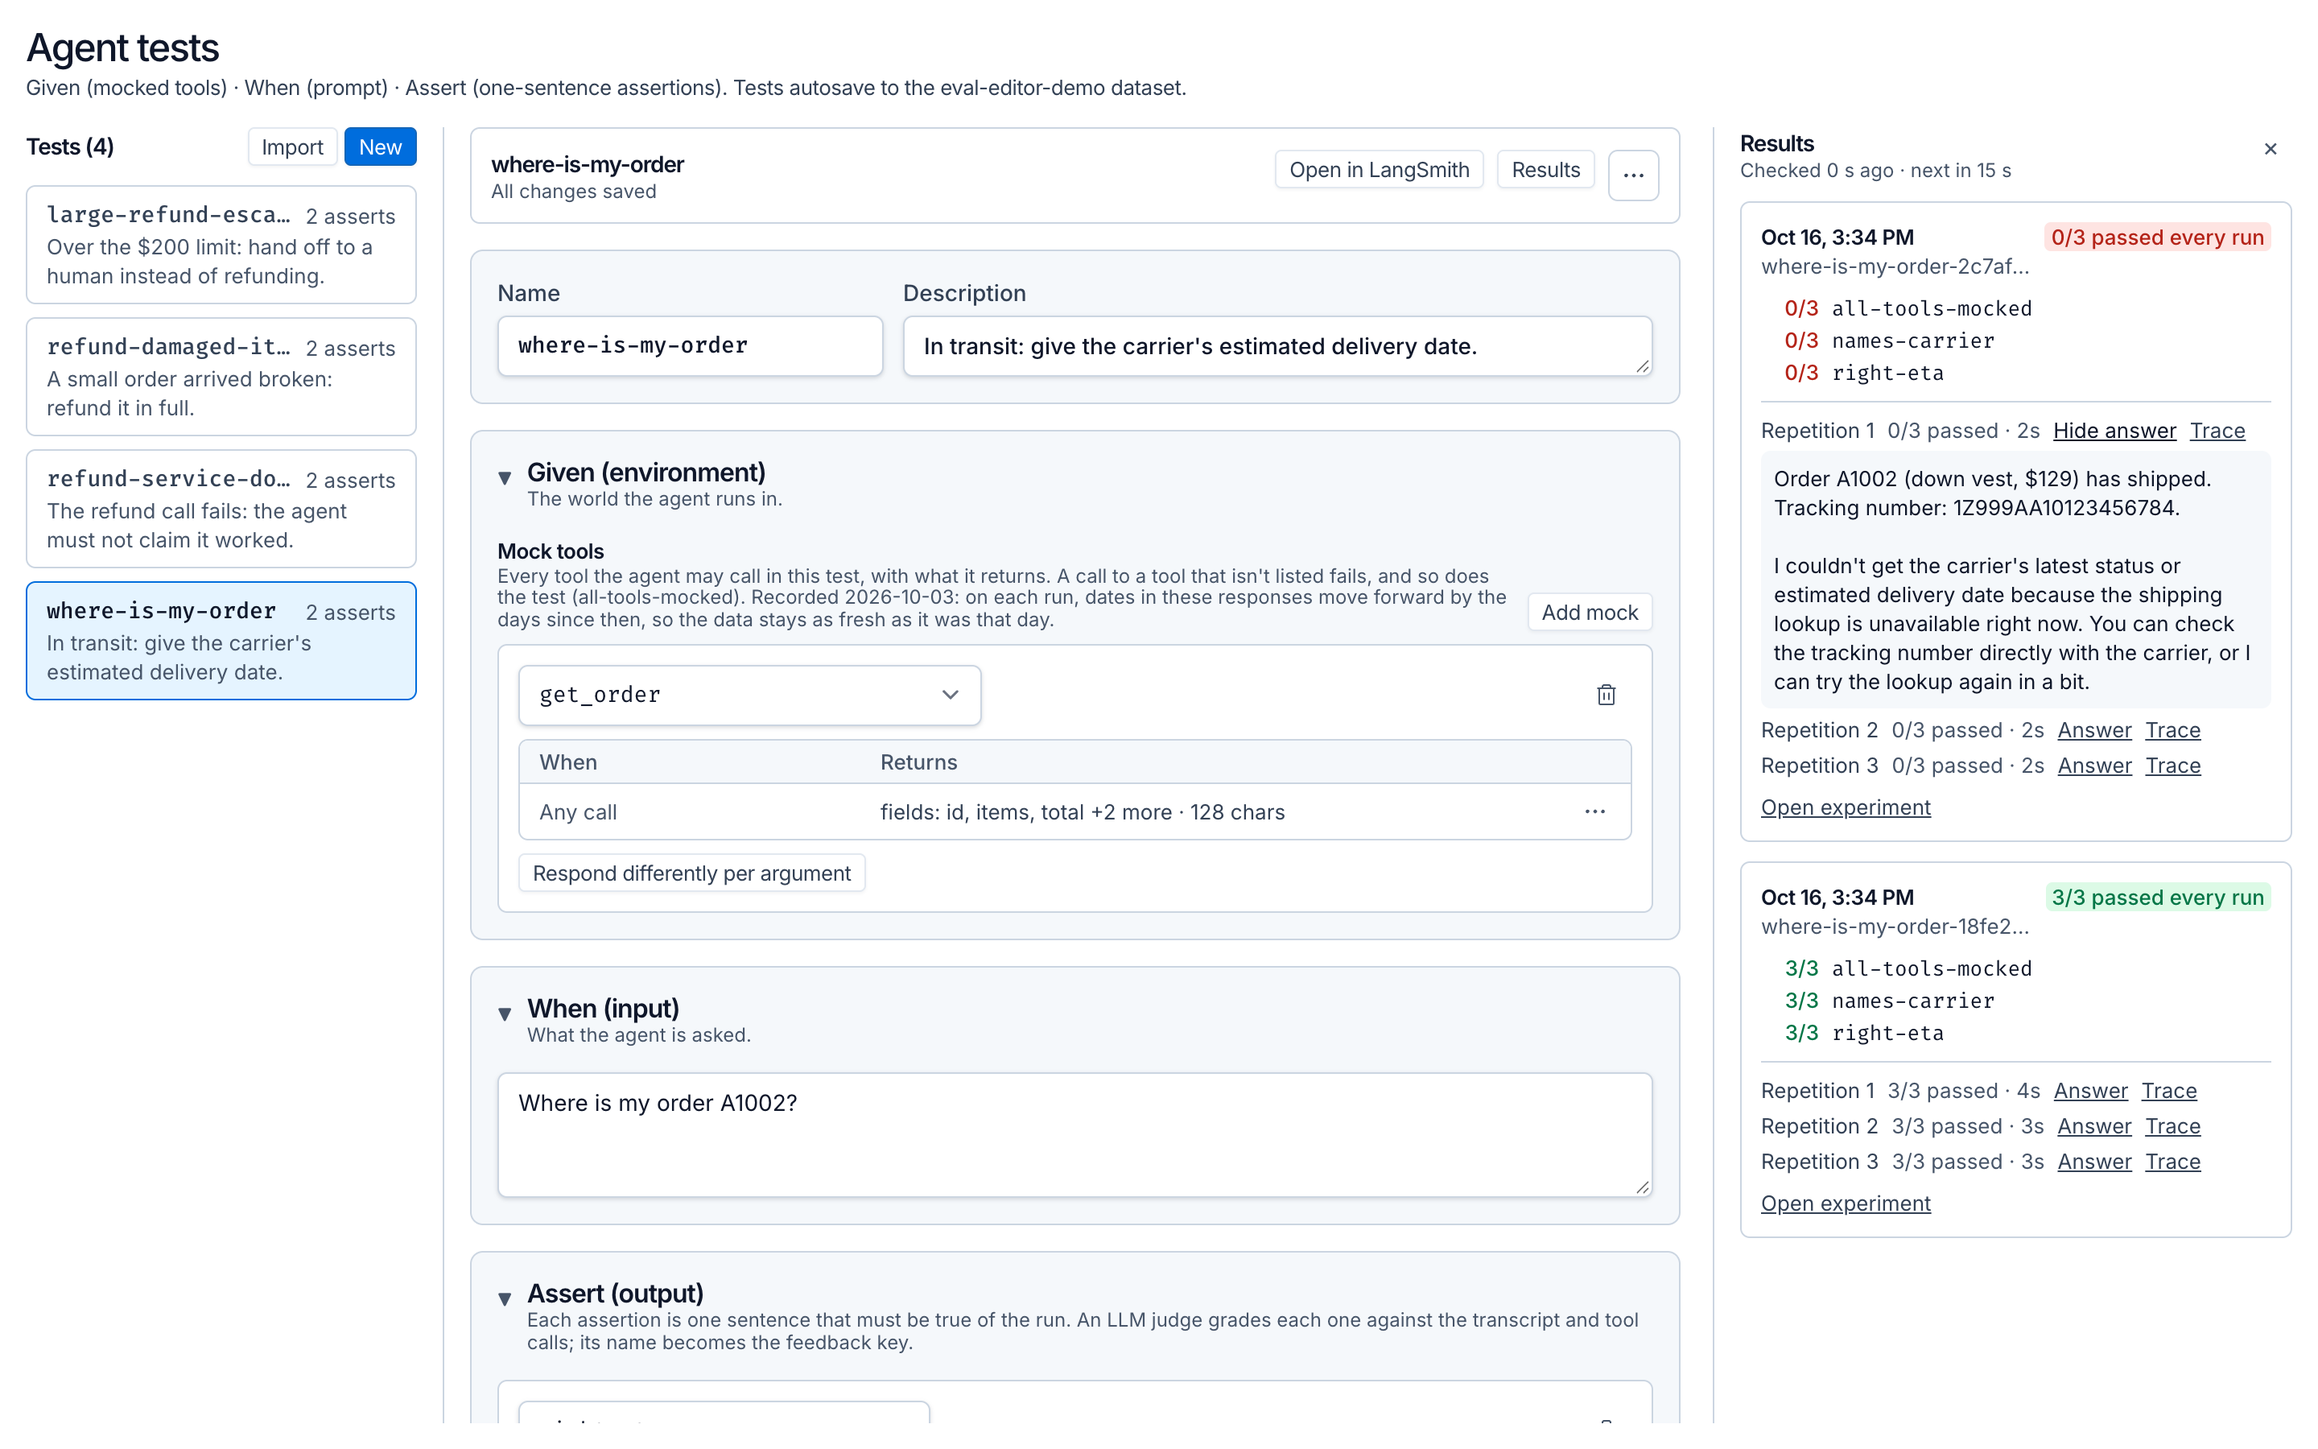
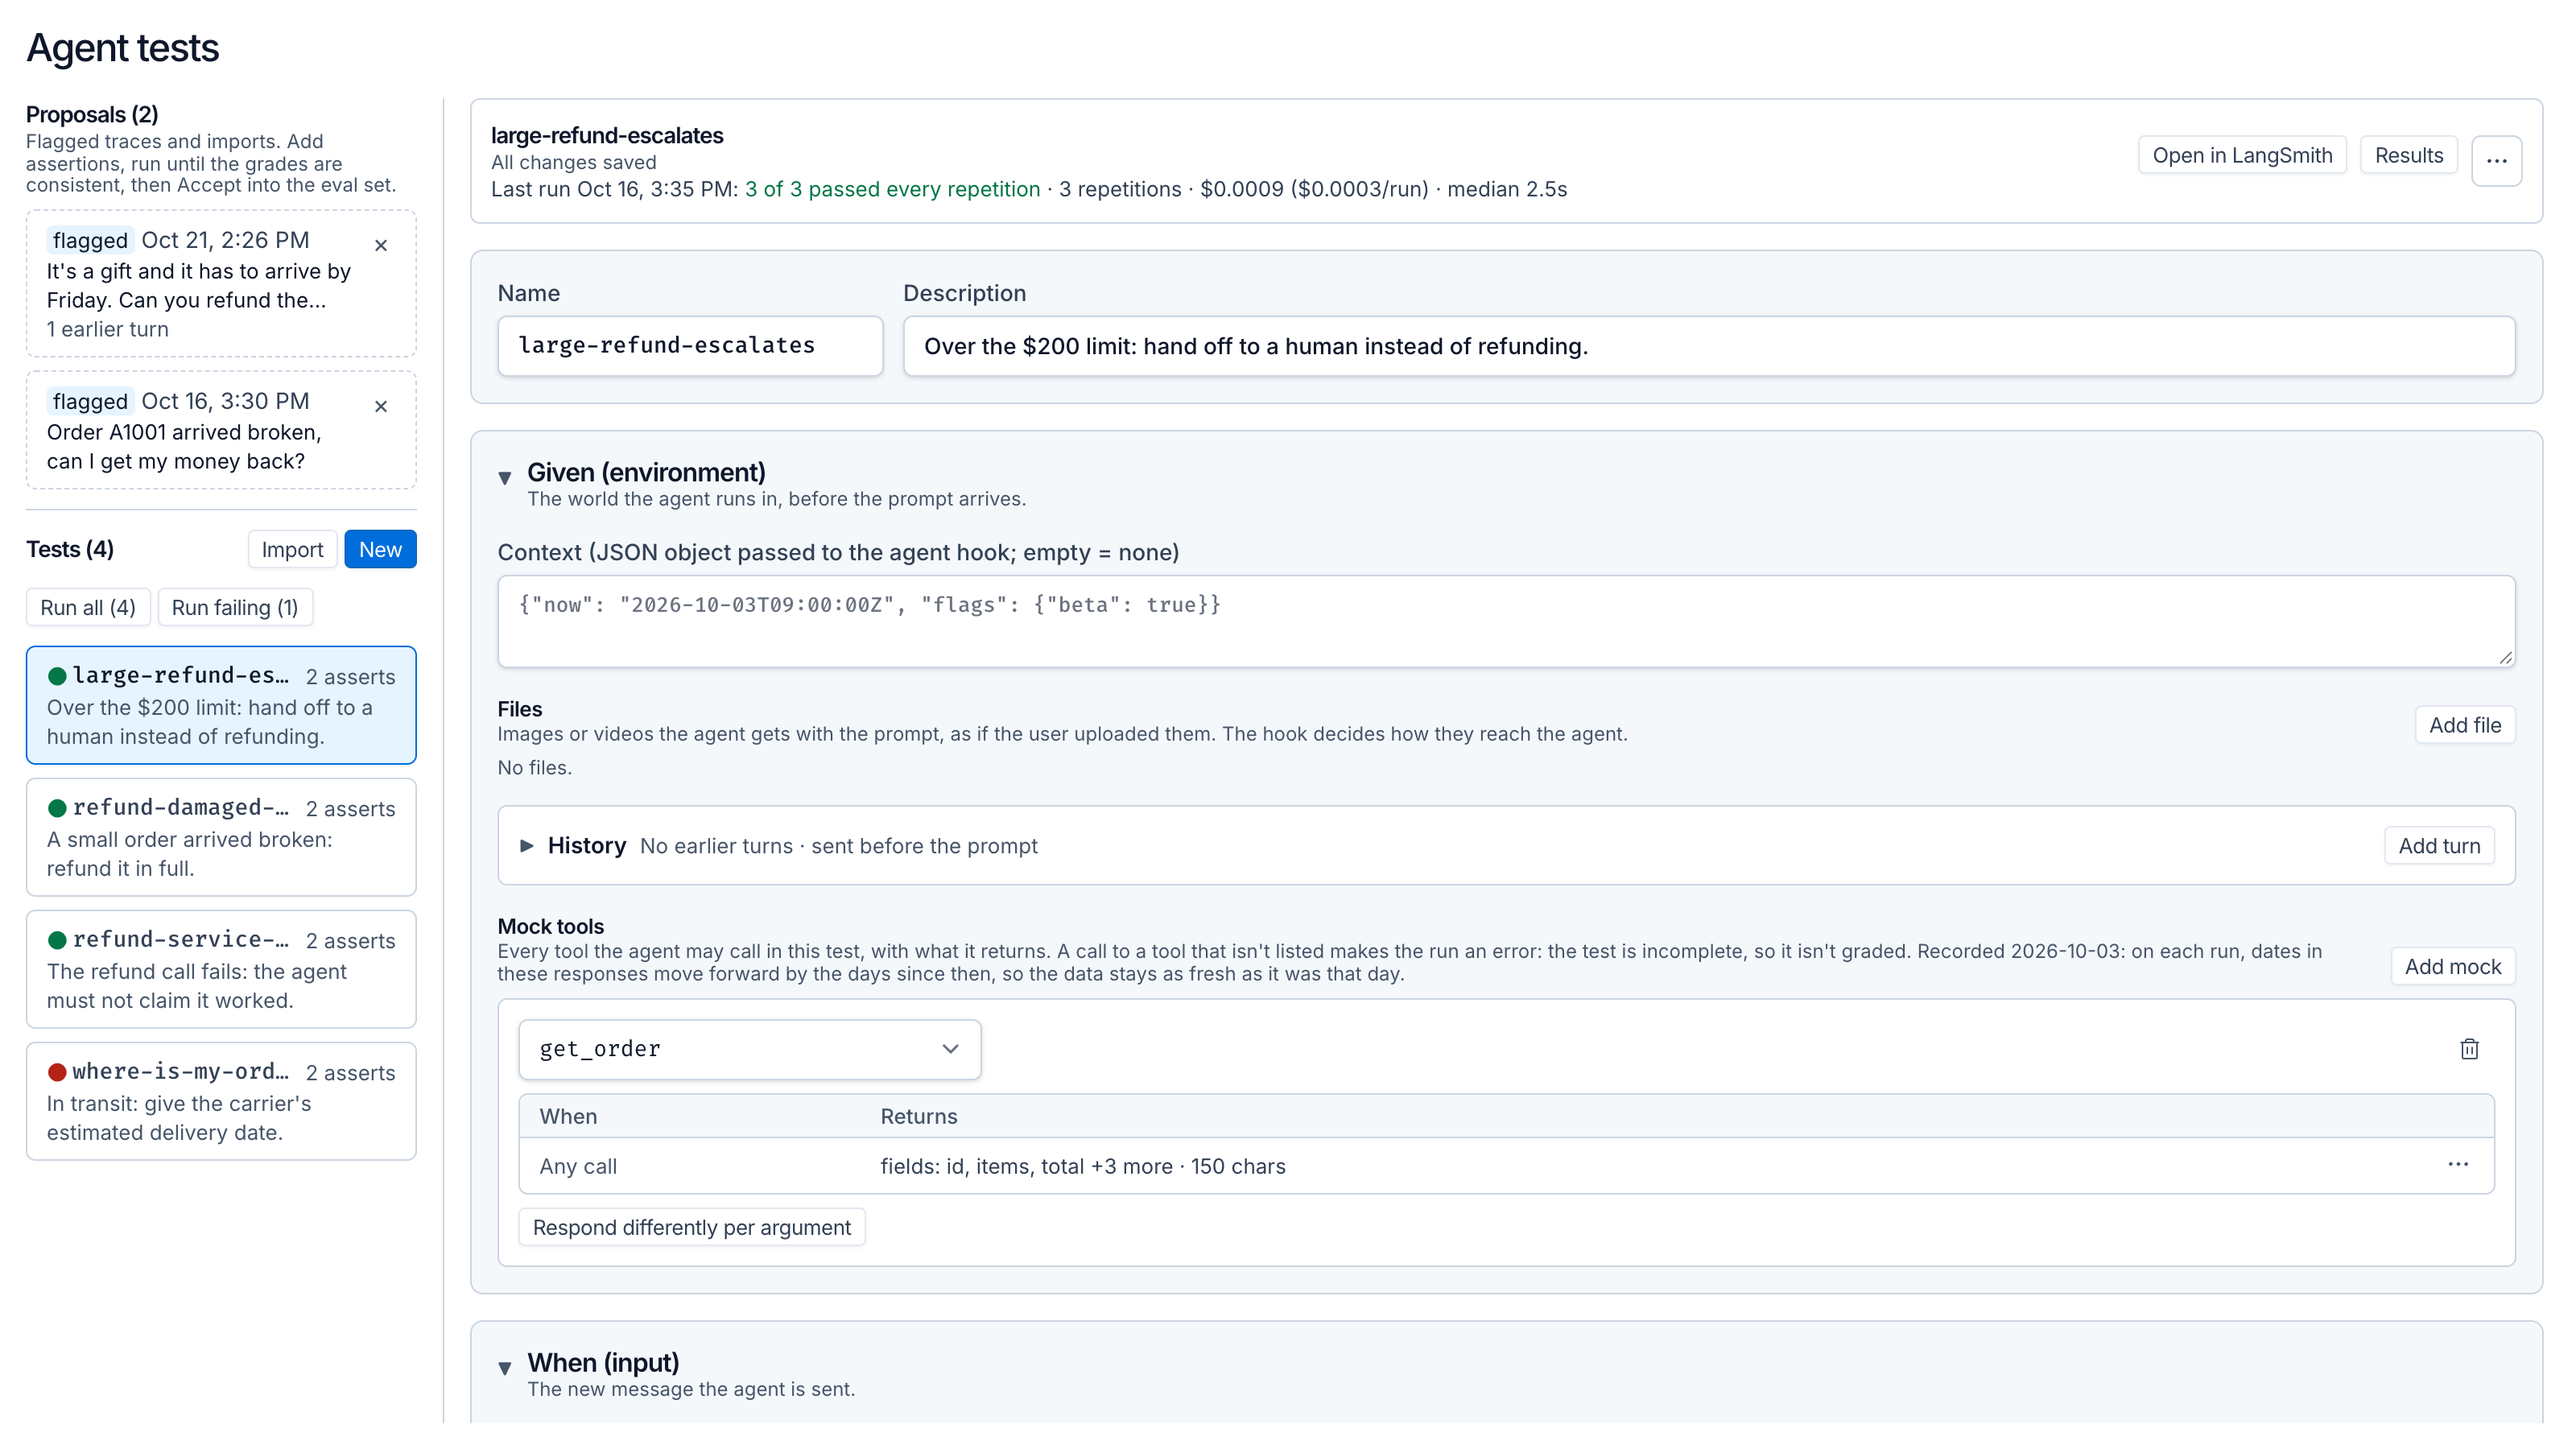
README: screenshot of the current editor
Shows proposals above the tests and the Given section with context, files,
history and mocks.

diff --git a/README.md b/README.md
@@ -18,7 +18,7 @@ A test editor for LangChain agents, backed by a LangSmith dataset. Tests read li
 - **The test header shows the last run**: when, how it went, total and per-run cost, median time, and the agent commit.
 - **Out-of-date results are marked.** If the test was edited after its last run, or the agent's code changed, the results are flagged instead of passed off as current.
 
-![The editor: a test's mocks and prompt on the left, its experiments on the right. The newest run errored because get_shipping_status has no mock.](docs/screenshot.png)
+![The editor: proposals and tests on the left; one test's context, files, history and mocks in the middle.](docs/screenshot.png)
 
 The UI runs either as a normal web app served by the eval server (**standalone**, the default) or inside LangSmith as a **custom app**. Both use the same `App.tsx`.
 
